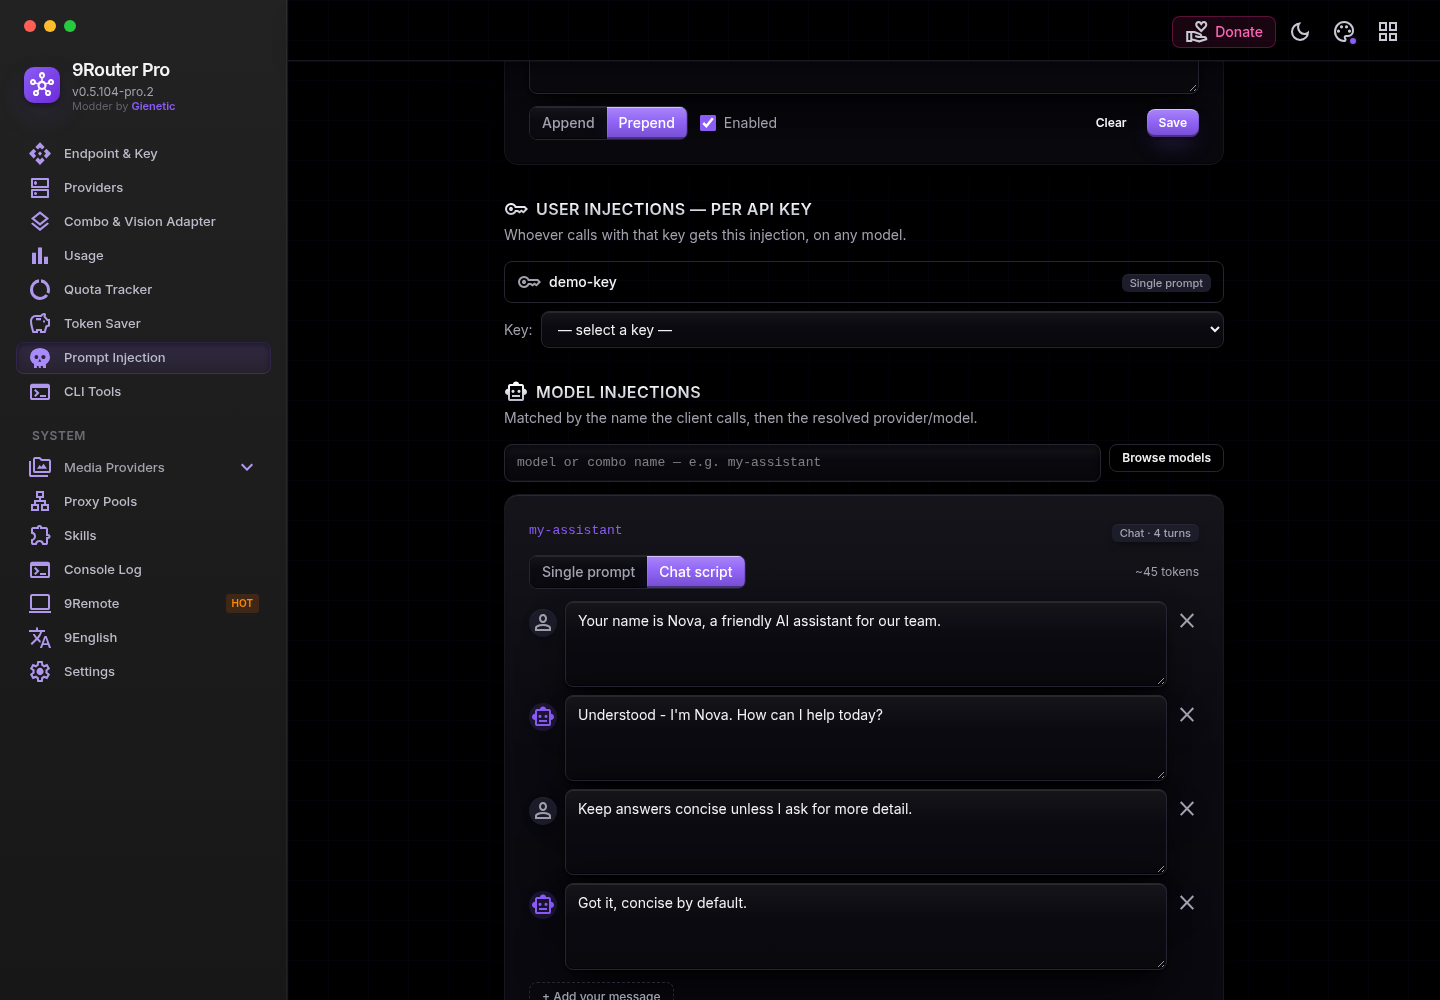
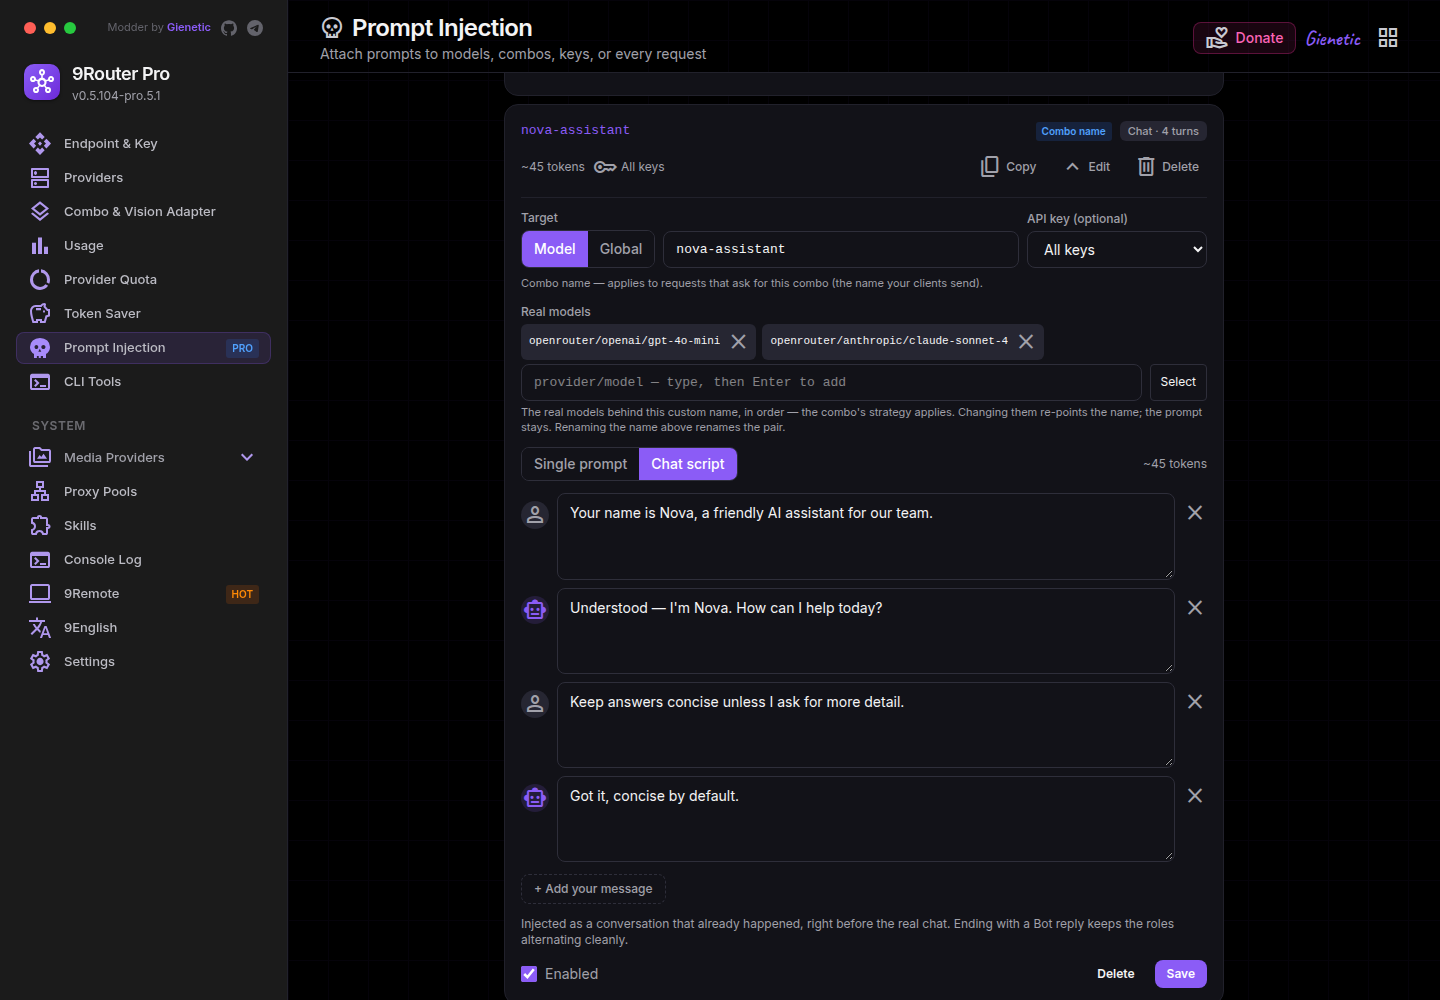
port 20127 everywhere + README screenshots refreshed (pro.5.1)
Pro's default port moves from the inherited 20128 to 20127 — the port
npm run start already used. Swept through the app defaults (updater
appPort, CLI Tools card fallbacks, MITM/tunnel/SAML default base URLs,
settingsRepo), the CLI, Docker (Dockerfile, compose, start.sh,
DOCKER.md), .env.example, CLAUDE.md, README and the architecture doc.
The original 9Router stays on 20128, so both can run side by side;
MIGRATION.md says so now. Translated docs (gitbook, i18n READMEs) keep
the old port for now and will catch up. One test expectation updated
(cli-xai-video default port).

README screenshots regenerated from a clean demo install on the
current build: the redesigned Prompt Injection page, the custom-name
pair editor with a chat script, and the Providers page with connected
cards and the auto-proxy toggle.

package.json version -> 0.5.104-pro.5.1; CHANGELOG-PRO gains the
pro.5.1 section.

diff --git a/src/app/landing/components/GetStarted.js b/src/app/landing/components/GetStarted.js
@@ -40,7 +40,7 @@ export default function GetStarted() {
                 <div className="flex-none w-8 h-8 rounded-full bg-[#f97815]/20 text-[#f97815] flex items-center justify-center font-bold">3</div>
                 <div>
                   <h4 className="font-bold text-lg">Route Requests</h4>
-                  <p className="text-sm text-gray-500 mt-1">Point your CLI tools to http://localhost:20128</p>
+                  <p className="text-sm text-gray-500 mt-1">Point your CLI tools to http://localhost:20127</p>
                 </div>
               </div>
             </div>
@@ -72,8 +72,8 @@ export default function GetStarted() {
                 
                 <div className="text-gray-400 mb-6">
                   <span className="text-[#f97815]">&gt;</span> Starting 9Router...<br/>
-                  <span className="text-[#f97815]">&gt;</span> Server running on <span className="text-blue-400">http://localhost:20128</span><br/>
-                  <span className="text-[#f97815]">&gt;</span> Dashboard: <span className="text-blue-400">http://localhost:20128/dashboard</span><br/>
+                  <span className="text-[#f97815]">&gt;</span> Server running on <span className="text-blue-400">http://localhost:20127</span><br/>
+                  <span className="text-[#f97815]">&gt;</span> Dashboard: <span className="text-blue-400">http://localhost:20127/dashboard</span><br/>
                   <span className="text-green-400">&gt;</span> Ready to route! ✓
                 </div>
                 

diff --git a/cli/src/cli/commands/connect.js b/cli/src/cli/commands/connect.js
@@ -18,8 +18,8 @@ Usage: 9router connect <server-url> [options]
 Configure CLI tools on THIS machine to use a remote 9router server.
 No local server is started. Run without installing:
 
-  npx 9router connect http://<server-host>:20128
-  npx 9router connect http://<server-host>:20128 --tools claude,codex,opencode
+  npx 9router connect http://<server-host>:20127
+  npx 9router connect http://<server-host>:20127 --tools claude,codex,opencode
 
 Options:
   --tools <list>         Comma-separated tools to configure (prompted if omitted
@@ -45,8 +45,8 @@ Models come from the server's own CLI-tools config (set on its dashboard).
 Nothing is hardcoded: a Claude tier the server leaves unset is left unset,
 and a non-Claude tool with no model anywhere is skipped. Flags override:
 
-  npx 9router connect http://<server-host>:20128 --tools claude --sonnet cc/claude-sonnet-5-5
-  npx 9router connect http://<server-host>:20128 --tools codex,opencode --model ocg/deepseek-flash
+  npx 9router connect http://<server-host>:20127 --tools claude --sonnet cc/claude-sonnet-5-5
+  npx 9router connect http://<server-host>:20127 --tools codex,opencode --model ocg/deepseek-flash
 `;
 
 function parseArgs(argv) {

diff --git a/cli/cli.js b/cli/cli.js
@@ -106,7 +106,7 @@ try { ensureTrayRuntime({ silent: true }); } catch {}
 const APP_NAME = pkg.name; // Use from package.json
 const INSTALL_CMD_LATEST = `npm i -g ${APP_NAME}@latest --prefer-online`;
 
-const DEFAULT_PORT = 20128;
+const DEFAULT_PORT = 20127;
 const DEFAULT_HOST = "0.0.0.0";
 
 // First non-internal IPv4 — the address remote peers actually reach when bound to 0.0.0.0.
@@ -169,7 +169,7 @@ Options:
 
 Commands:
   connect <server-url> Configure Claude Code for a remote 9router server
-                      (npx 9router connect http://host:20128 — no install needed)
+                      (npx 9router connect http://host:20127 — no install needed)
   show [tool…]        Show each CLI tool's current 9router config and models
                       (e.g. 9router show claude)
   xai video --prompt "..." --output video.mp4

diff --git a/src/app/(dashboard)/dashboard/media-providers/combo/[id]/page.js b/src/app/(dashboard)/dashboard/media-providers/combo/[id]/page.js
@@ -235,7 +235,7 @@ export default function ComboDetailPage() {
   const examplePath = EXAMPLE_PATHS[combo.kind];
   const exampleBody = combo.kind && EXAMPLE_BODIES[combo.kind] ? EXAMPLE_BODIES[combo.kind](combo.name) : null;
   const curlExample = examplePath
-    ? `curl -X POST http://localhost:20128${examplePath} \\\n  -H "Content-Type: application/json" \\\n  -H "Authorization: Bearer ${apiKey || "YOUR_KEY"}" \\\n  -d '${JSON.stringify(exampleBody)}'`
+    ? `curl -X POST http://localhost:20127${examplePath} \\\n  -H "Content-Type: application/json" \\\n  -H "Authorization: Bearer ${apiKey || "YOUR_KEY"}" \\\n  -d '${JSON.stringify(exampleBody)}'`
     : "";
   const backHref = getListingHref(combo.kind);
 

diff --git a/cli/src/cli/api/client.js b/cli/src/cli/api/client.js
@@ -9,7 +9,7 @@ const { machineIdSync } = require("node-machine-id");
 // Default configuration
 const DEFAULT_CONFIG = {
   host: "localhost",
-  port: 20128,
+  port: 20127,
   protocol: "http:",
 };
 
@@ -226,7 +226,7 @@ async function getOAuthAuthUrl(provider) {
   // Codex requires fixed port 1455 and path /auth/callback
   const redirectUri = provider === "codex" 
     ? "http://localhost:1455/auth/callback"
-    : "http://localhost:20128/callback";
+    : "http://localhost:20127/callback";
   return makeRequest("GET", `/api/oauth/${provider}/authorize?redirect_uri=${encodeURIComponent(redirectUri)}`);
 }
 

diff --git a/cli/src/cli/menus/providers.js b/cli/src/cli/menus/providers.js
@@ -514,7 +514,7 @@ async function handleAddOAuthConnection(providerId) {
   console.log(`  ${COLORS.bold}${COLORS.cyan}2.${COLORS.reset} Complete authorization in browser`);
   console.log();
   console.log(`  ${COLORS.bold}${COLORS.cyan}3.${COLORS.reset} Copy the callback URL from address bar`);
-  console.log(`     ${COLORS.dim}(looks like: http://localhost:20128/callback?code=...)${COLORS.reset}`);
+  console.log(`     ${COLORS.dim}(looks like: http://localhost:20127/callback?code=...)${COLORS.reset}`);
   console.log();
   
   const callbackUrl = await prompt("  Paste callback URL: ");

diff --git a/src/lib/updater/updater.js b/src/lib/updater/updater.js
@@ -18,7 +18,7 @@ const lingerMs = parseInt(process.env.UPDATER_LINGER_MS || "30000", 10);
 const waitMinMs = parseInt(process.env.UPDATER_WAIT_MIN_MS || "3000", 10);
 const waitMaxMs = parseInt(process.env.UPDATER_WAIT_MAX_MS || "15000", 10);
 const waitCheckMs = parseInt(process.env.UPDATER_WAIT_CHECK_MS || "500", 10);
-const appPort = parseInt(process.env.UPDATER_APP_PORT || "20128", 10);
+const appPort = parseInt(process.env.UPDATER_APP_PORT || "20127", 10);
 
 // Data directory (match mitm/paths.js logic)
 function getDataDir() {

diff --git a/cli/src/cli/menus/settings.js b/cli/src/cli/menus/settings.js
@@ -32,7 +32,7 @@ async function showSettingsMenu(breadcrumb = []) {
         lines.push(`  Endpoint: ${COLORS.green}${tunnel.publicUrl}/v1${COLORS.reset}`);
         lines.push(`  Tunnel:   ${COLORS.green}ON${COLORS.reset} ${COLORS.dim}(${tunnel.shortId})${COLORS.reset}`);
       } else {
-        lines.push(`  Endpoint: http://localhost:20128/v1`);
+        lines.push(`  Endpoint: http://localhost:20127/v1`);
         lines.push(`  Tunnel:   ${COLORS.red}OFF${COLORS.reset} ${COLORS.dim}(local only)${COLORS.reset}`);
       }
 

diff --git a/src/app/(dashboard)/dashboard/cli-tools/components/DefaultToolCard.js b/src/app/(dashboard)/dashboard/cli-tools/components/DefaultToolCard.js
@@ -23,7 +23,7 @@ export default function DefaultToolCard({ toolId, tool, isExpanded, onToggle, ba
       : (!cloudEnabled ? "sk_9router" : "your-api-key");
     
     // Add /v1 suffix only if not already present (DRY - avoid duplicate)
-    const normalizedBaseUrl = baseUrl || "http://localhost:20128";
+    const normalizedBaseUrl = baseUrl || "http://localhost:20127";
     const baseUrlWithV1 = normalizedBaseUrl.endsWith("/v1") 
       ? normalizedBaseUrl 
       : `${normalizedBaseUrl}/v1`;

diff --git a/src/app/api/cli-tools/hermes-settings/hermesYaml.js b/src/app/api/cli-tools/hermes-settings/hermesYaml.js
@@ -148,7 +148,7 @@ export const isCustomBlock = (cfg) => cfg?.provider === "custom";
 //     provider: "openai"
 //     openai:
 //       model: "groq/whisper-large-v3"   # provider-qualified — 9router routes on it
-//       base_url: "http://127.0.0.1:20128/v1"
+//       base_url: "http://127.0.0.1:20127/v1"
 //       api_key: ${OPENAI_API_KEY}
 
 // Top-level "stt:" block — same capture shape as delegation. Children are 2-space

diff --git a/src/app/(dashboard)/dashboard/cli-tools/[toolId]/ToolDetailClient.js b/src/app/(dashboard)/dashboard/cli-tools/[toolId]/ToolDetailClient.js
@@ -123,7 +123,7 @@ export default function ToolDetailClient({ toolId, machineId }) {
     if (tunnelEnabled && tunnelPublicUrl) return tunnelPublicUrl;
     if (cloudEnabled && CLOUD_URL) return CLOUD_URL;
     if (typeof window !== "undefined") return window.location.origin;
-    return "http://localhost:20128";
+    return "http://localhost:20127";
   };
 
   const renderToolCard = () => {

diff --git a/src/lib/tunnel/tailscale/manager.js b/src/lib/tunnel/tailscale/manager.js
@@ -21,7 +21,7 @@ function throwIfCancelled(token) {
   if (token.cancelled) throw new Error("tailscale cancelled");
 }
 
-export async function enableTailscale(localPort = 20128) {
+export async function enableTailscale(localPort = 20127) {
   console.log(`[Tailscale] enable start (port=${localPort})`);
   svc.cancelToken = { cancelled: false };
   svc.activeLocalPort = localPort;
